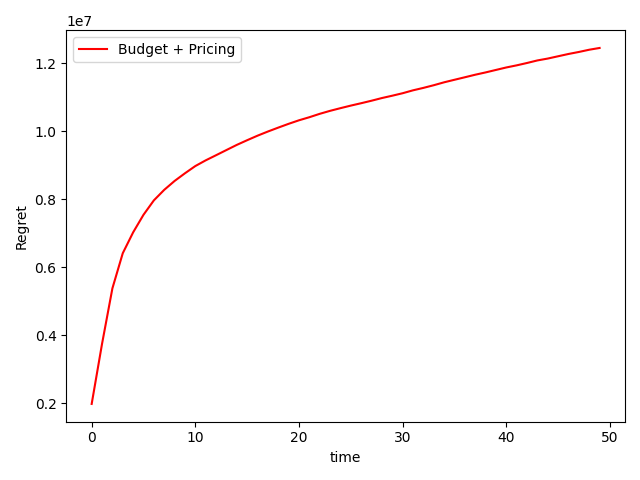
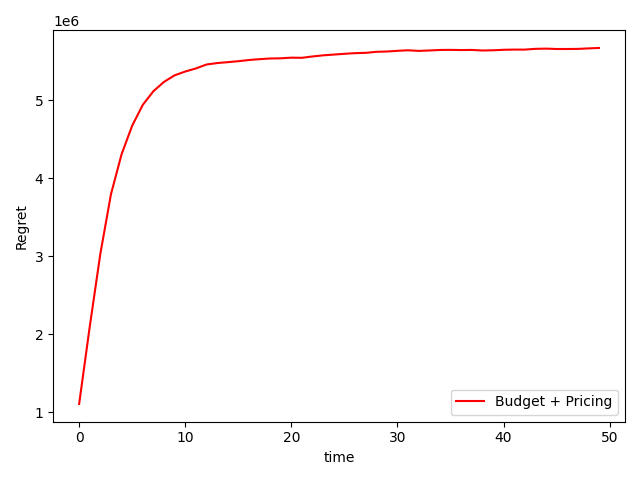
Add bdg_alloc_pricing results and update latex

diff --git a/pdf/sections/optresults.tex b/pdf/sections/optresults.tex
@@ -1,1 +1,8 @@
-*PENDING RESULTS. WILL BE READY SOON*
+The experiment shows that after only 10 days of exploration, the corporate could start to exploit good superarms, converging to the optimal one after about half a month.
+
+This result is achieved because the combinatorial problem is solved in an exact way, thus increasing the execution time but lowering the additional regret. This is a reasonanble assumption as the corporate can run the algorithm over the night or in any time with low orders.
+\\The approximation of the solution of the combinatorial problem would have saved just few minutes of computation but would have increased the regret of a non-trascurable amount of money, as a luxury brand cannot afford to sell products even with a sightly wrong price.
+\\The cumulative regret when the algorithm learns both the conversion rate curves and the performance of the advertising subcampaigns is plotted as follows, along with its complementary reward chart that shows the reward at each time $t \in T$.
+\\
+\makebox[\textwidth][c]{\includegraphics[width=0.9\textwidth]{../curves/results/bdgalloc_and_pricing_real_regret}}
+\makebox[\textwidth][c]{\includegraphics[width=0.9\textwidth]{../curves/results/bdgalloc_and_pricing_real_reward}}

diff --git a/pdf/sections/optimizationConstrained.tex b/pdf/sections/optimizationConstrained.tex
@@ -32,7 +32,6 @@ The high-level pseudo code of the algorithm is shown in Algorithm \ref{alg:opt-c
 Basically, every TS learner is responsible for finding the best price for the class of users it belongs to.
 However, since only one price can be selected, the algorithm solves the budget optimization problem for each price and chooses the one that has the greatest expected reward.
 In the budget optimization problem the value per click depends on the price chosen.
-
 \begin{algorithm}
     \caption{Budget and Pricing optimization with fixed price}
     \label{alg:opt-constrained}
@@ -57,8 +56,7 @@ In the budget optimization problem the value per click depends on the price chos
         \ENDFOR
 	\end{algorithmic}
 \end{algorithm}
-
-Some remarks:
+\newpage Some remarks:
 \begin{itemize}
     \item All the TS learners have 6 arms. As discussed in \ref{pricing_best_arm}, this guarantees a fair reward with the given timespan. 
     \item The value $d_p$ is estimated from the TS learner, in particular it returns a sample from the beta distribution of price $p$, in the following way: $d_p = beta(\alpha_p, \beta_p)$

diff --git a/pdf/sections/swcmab.tex b/pdf/sections/swcmab.tex
@@ -4,13 +4,15 @@ The pseudo code of the algoritm we implemented is as follow.
 	\begin{algorithmic}[1]
 		\renewcommand{\algorithmicrequire}{\textbf{Input:}}
 		\REQUIRE $\tau$ sliding window size, $J$ classes of users
-		\FOR{$j \in \{1,...,J\}$}
-		\STATE Sample j-th GP-Learner($\tau$)
-		\STATE Add row to knapsack matrix
+		\FOR{$day \in \{1,...,T\}$}
+			\FOR{$j \in \{1,...,J\}$}
+			\STATE Sample j-th GP-Learner($\tau$)
+			\STATE Add row to knapsack matrix
+			\ENDFOR
+			\STATE Optimize knapsack matrix
+			\STATE Play selected superarm
+			\STATE Update GP-Learners model($\tau$)
 		\ENDFOR
-		\STATE Optimize knapsack matrix
-		\STATE Play selected superarm
-		\STATE Update GP-Learners model($\tau$)
 	\end{algorithmic}
 \end{algorithm}
 \\The update of the GP-Learner's model performed at time $\tau$ is achieved by adding the collected reward to the reward space and then discarding the least element if the current time exceeds $\tau$.

diff --git a/pdf/main.tex b/pdf/main.tex
@@ -54,6 +54,8 @@
 	\input{sections/subcampaigns}
 	\subsection{The Abrupt Phases}
 	\input{sections/phases}
+	\section{The code}
+	\input{sections/code}	
 	\section{Case study and Algorithms}
 	
 	\subsection{Budget allocation with only one phase}
@@ -81,7 +83,16 @@
 	\input{sections/contextGenerator.tex}
 	\newpage
 	\subsection{Optimization Algorithm}
+	\input{sections/optimization}
+	\subsubsection{Experiment setting}
+	\input{sections/optsetting}
+	\subsubsection{Gaussian Process Combinatorial Multi-armed Bandit}
+	\input{sections/optalgorithm}
+	\subsubsection{Results}
+	\input{sections/optresults}
 	\newpage
 	\subsection{Optimization Algortihm Constrained}
 	\input{sections/optimizationConstrained.tex}
+	
+	\section{Conclusion}
 \end{document}

diff --git a/pdf/sections/cmab.tex b/pdf/sections/cmab.tex
@@ -3,12 +3,14 @@ The pseudo code of the algoritm we implemented is as follow.
 	\caption{Gaussian Process CMAB}
 	\begin{algorithmic}[1]
 		\STATE $J\gets ${ all classes of users}
-		\FOR{$j \in \{1,...,J\}$}
-		\STATE Sample j-th GP-Learner
-		\STATE Add row to knapsack matrix
+		\FOR {$day \in T$}
+			\FOR{$j \in \{1,...,J\}$}
+			\STATE Sample j-th GP-Learner
+			\STATE Add row to knapsack matrix
+			\ENDFOR
+			\STATE Optimize knapsack matrix
+			\STATE Play selected superarm
+			\STATE Update GP-Learners model
 		\ENDFOR
-		\STATE Optimize knapsack matrix
-		\STATE Play selected superarm
-		\STATE Update GP-Learners model
 	\end{algorithmic}
 \end{algorithm}

diff --git a/pdf/sections/firstresults.tex b/pdf/sections/firstresults.tex
@@ -1,4 +1,4 @@
 The experiment shows that after only 7 days of exploration, the corporate could start to exploit the best arms, converging to the optimal one after about half a month.
 \newpage
 The regret chart that resulted from this experiment is as follows:\\
-\makebox[\textwidth][c]{\includegraphics[width=0.85\textwidth]{../curves/results/budgetallocation_stationary_results}}
+\makebox[\textwidth][c]{\includegraphics[width=1\textwidth]{../curves/results/budgetallocation_stationary_results}}

diff --git a/BudgetAllocationAndPricing/main.py b/BudgetAllocationAndPricing/main.py
@@ -10,7 +10,7 @@ from datetime import datetime
 
 TIME_SPAN = 50
 N_CLASSES = 3
-N_EXPERIMENTS = 1
+N_EXPERIMENTS = 40
 
 min_budgets = [10, 10, 10]
 max_budgets = [54, 58, 52]
